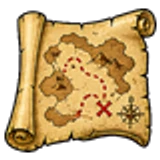
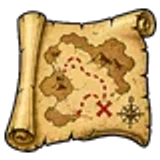
fix: rebuild Pirates Of Treasure Cove from the standard cluster art pack
Built from the New-ClusterGameSpec.ps1 spec (grid slicing of the fixed 5x2 sheet
in C:\source\games\Pirates-Of-Treasure-Cove-cluster). The earlier build used
auto detection on the theme folder's old sheet and mixed up the symbols.

diff --git a/apps/pirates-of-treasure-cove/src/routes/+layout.svelte b/apps/pirates-of-treasure-cove/src/routes/+layout.svelte
@@ -17,7 +17,7 @@
 	$effect(() => {
 		document.documentElement.classList.toggle('intro-active', introVisible);
 	});
-	const introFeatures = [{"icon":"*","title":"Cluster Pays","subtitle":"Match 5+ adjacent symbols to win","image":"./assets/features/feature1.png"},{"icon":"*","title":"Free Spins","subtitle":"Land Scatters to trigger the bonus round","image":"./assets/features/feature2.png"},{"icon":"*","title":"2 500x Max Win","subtitle":"Chase the ultimate top prize","image":"./assets/features/feature3.png"}];
+	const introFeatures = [{"icon":"*","title":"Cluster Pays","subtitle":"Match 5+ adjacent symbols to win"},{"icon":"*","title":"Free Spins","subtitle":"Land Scatters to trigger the bonus round"},{"icon":"*","title":"2 500x Max Win","subtitle":"Chase the ultimate top prize"}];
 	let timeStr = $state('');
 	onMount(() => {
 		const tick = () => { const n = new Date(); timeStr = String(n.getHours()).padStart(2,'0') + ':' + String(n.getMinutes()).padStart(2,'0'); };
